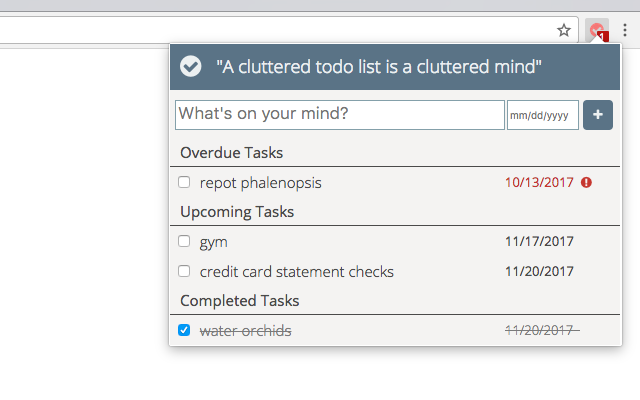
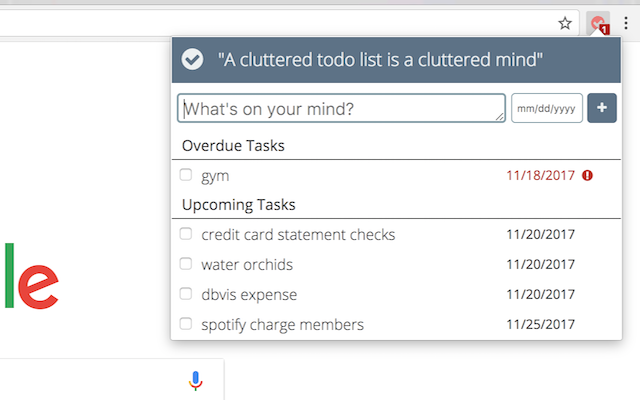
Release 2.2.11: * add promotional screenshots

diff --git a/README.md b/README.md
@@ -16,6 +16,8 @@ The button turns red to notify you whenever you have an overdue task.
 
 ## Features
 ![screenshot](public/promotional/screenshot_closeup_overdue.png)
+![screenshot](public/promotional/screenshot_no_overdue.png)
+
 #### Browser toolbar button
 Get a quick glimpse into your tasks status. A green icon means you don't have any overdue tasks. A red icon means you have an overdue task. It will also display a badge with the number of overdue tasks you need to complete.
 

diff --git a/public/promotional/readme.md b/public/promotional/readme.md
@@ -1,0 +1,8 @@
+## Image sizes
+
+### large_tile.jpeg: (920x680)
+
+### screenshots (1280x800 or 640x400)
+
+### small_tile.png (440x280)
+
